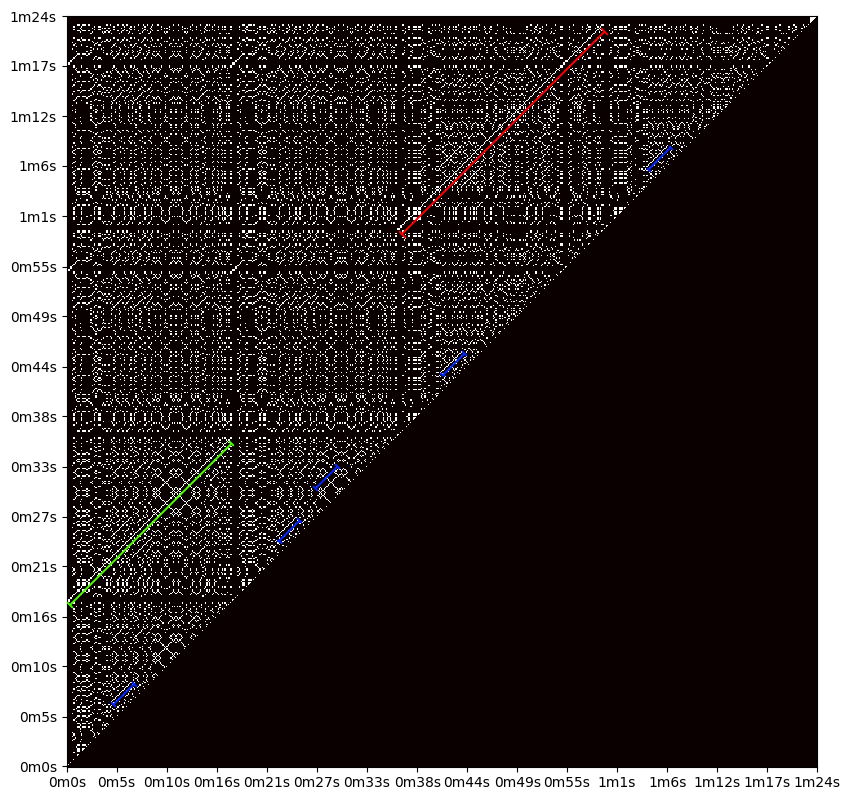
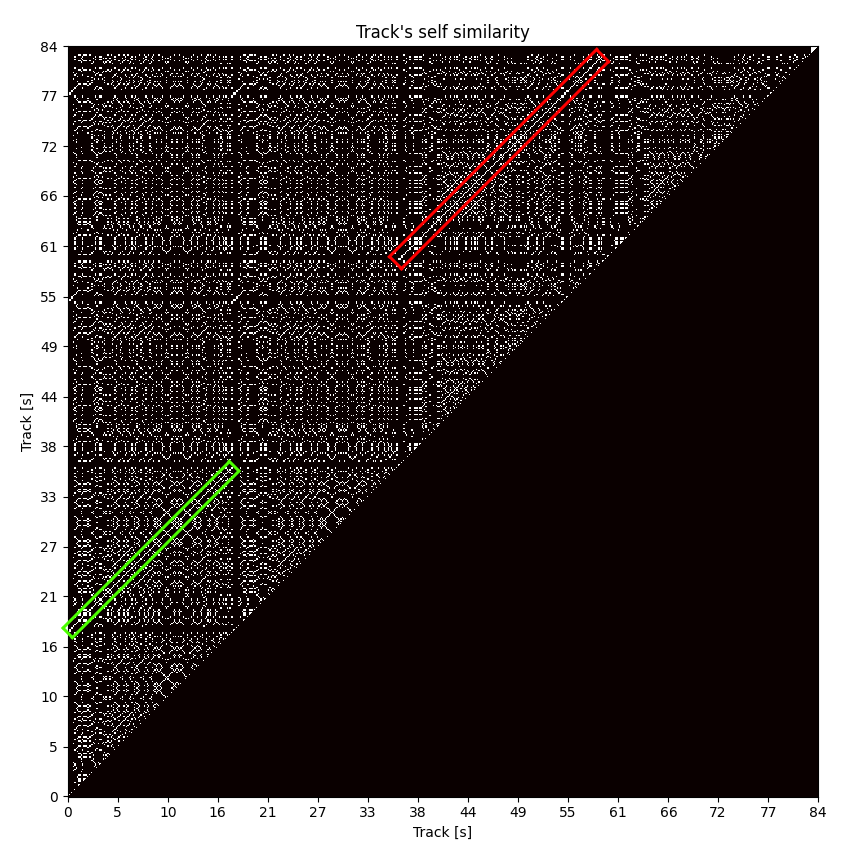
update img

Changed region(s): [[0.0, 0.0, 0.9811, 0.9912]]

diff --git a/notebooks/self_similarity.py b/notebooks/self_similarity.py
@@ -15,7 +15,7 @@ from wimu10.tempo_utils import timestep_to_realtime
 # Prepare music instance
 dataset = 'musicnet'
 download_muspy_midi(dataset)
-path = Path(DATA_RAW_PATH + dataset + '/_converted/000.json')
+path = Path(DATA_RAW_PATH + dataset + '/_converted/001.json')
 music = mp.load_json(path)
 
 # Calculate self similarity
@@ -34,7 +34,7 @@ for i in range(label_count):
     timestamp = (track_end - 1) * i / (label_count - 1)
     realtime = timestep_to_realtime(music, timestamp)
     seconds, minutes = modf(realtime)
-    label = f'{int(minutes)}m{floor(seconds * 60)}s'
+    label = f'{int(minutes) * 60 + floor(seconds * 60)}'
     label_indices.append(floor(timestamp / resolution))
     labels.append(label)
 
@@ -43,6 +43,9 @@ fig, ax = plt.subplots()  # type: ignore
 ax.imshow(scores, cmap='hot', interpolation='nearest')
 ax.set_xticks(label_indices, labels=labels)
 ax.set_yticks(label_indices, labels=labels)
+plt.title("Track's self similarity")
+plt.xlabel("Track [s]")
+plt.ylabel("Track [s]")
 fig.gca().invert_yaxis()
 plt.show()  # type: ignore
 
